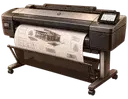
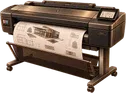
feat: Ploterów new image + slightly bigger; Drukarek etykiet slightly smaller
Ploterów: replaced icon with 15.png (HP DesignJet), same alpha-trim
pipeline (threshold 25, 3px margin, 126px long side, 5.7KB webp).
Zone split stays 60/40. Made the image ~15% bigger via a CSS
transform (scale-[1.15] origin-right) on the icon's inner wrapper —
anchored at the right edge (against the text boundary) so it grows
only to the left, giving the plotter more visual weight without
touching the text zone. No cropping (no overflow:hidden anywhere in
the card), aspect ratio preserved (uniform scale, not skewed).

Drukarek etykiet: same technique in reverse, scale-[0.9] origin-center,
to bring it down closer to the other cards' visual weight.

Both are pure CSS transforms on the existing image — no other icon
files touched, no zone-width/text/paper/card-size changes. Verified
PL/UK, no clipping (checked bounding boxes: image right edge lines
up exactly with text zone start, no overlap; left overflow stays
within the card's own padding, not into the paper's torn edge).

Claude-Session: https://claude.ai/code/session_01ATHVRHDkMwinAoGdaVN3TX

diff --git a/src/components/sections/services.tsx b/src/components/sections/services.tsx
@@ -147,6 +147,7 @@ export function Services({
             .map((service, i) => {
               const style = CARD_STYLE[i % CARD_STYLE.length]
               const isPlotter = service.slug === 'serwis-plotterow'
+              const isEtykiety = service.slug === 'serwis-drukarek-termicznych'
               return (
               <Link
                 key={service.slug}
@@ -169,7 +170,7 @@ export function Services({
               >
                 {/* Ikona — centered within its own zone (no left/right push). */}
                 <div className={`z-10 h-[120px] flex-shrink-0 ${isPlotter ? 'w-[60%]' : 'w-[50%]'}`}>
-                  <div className="relative w-full h-full">
+                  <div className={`relative w-full h-full ${isPlotter ? 'scale-[1.15] origin-right' : isEtykiety ? 'scale-[0.9] origin-center' : ''}`}>
                   <Image
                     src={
                       service.slug === 'serwis-komputerow-stacjonarnych'
